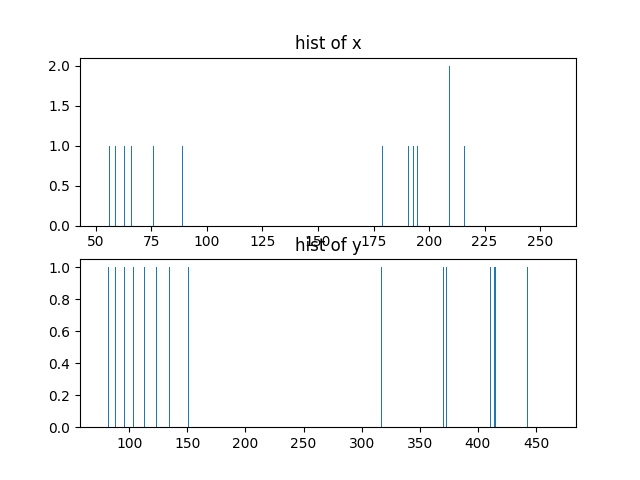
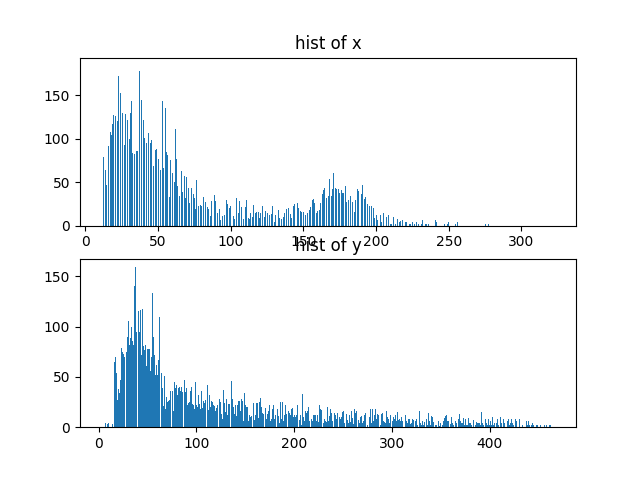
Updated image with image sizes histogram.

diff --git a/data-analysis.py b/data-analysis.py
@@ -166,7 +166,8 @@ if __name__ == '__main__':
     data_dir = 'data/extracted'
     sizes_x = np.empty((1, 0))
     sizes_y = np.empty((1, 0))
-    for filename in glob.glob(data_dir + '/temp*.data'):
+    for filename in glob.glob(data_dir + '/tracklets_points_image_grayscale_bg_white_drive_*.data'):
+        print("processing: " + filename)
         file = open(filename, 'rb')
         data = pickle.load(file)
         file.close()
